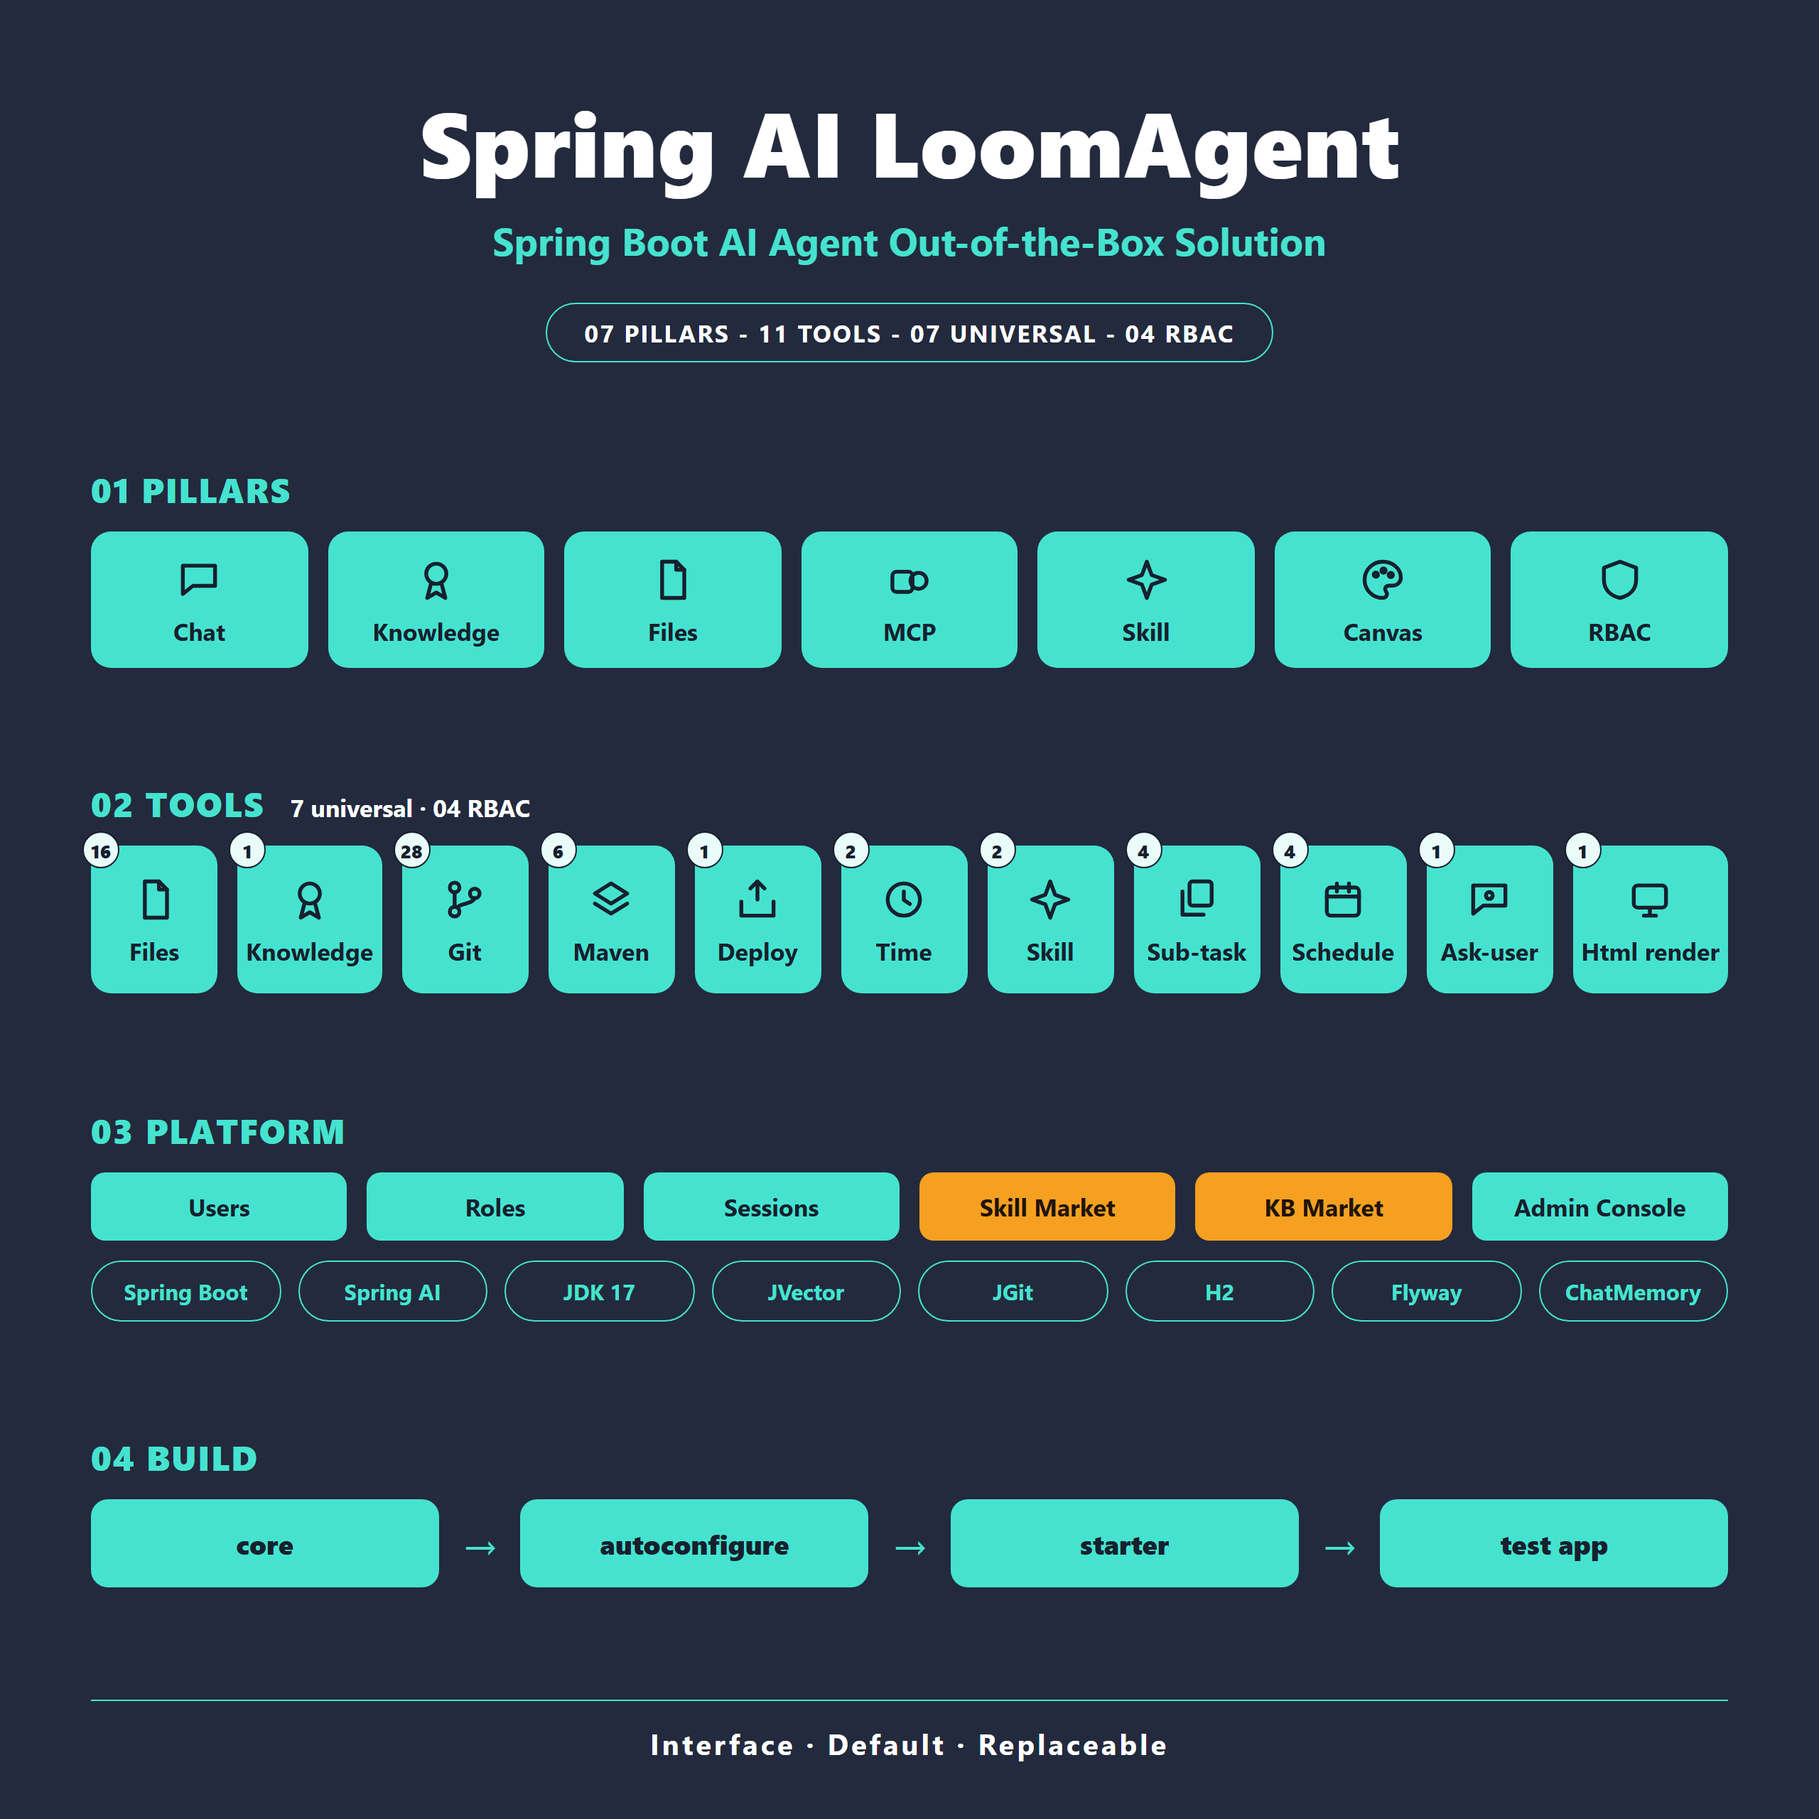
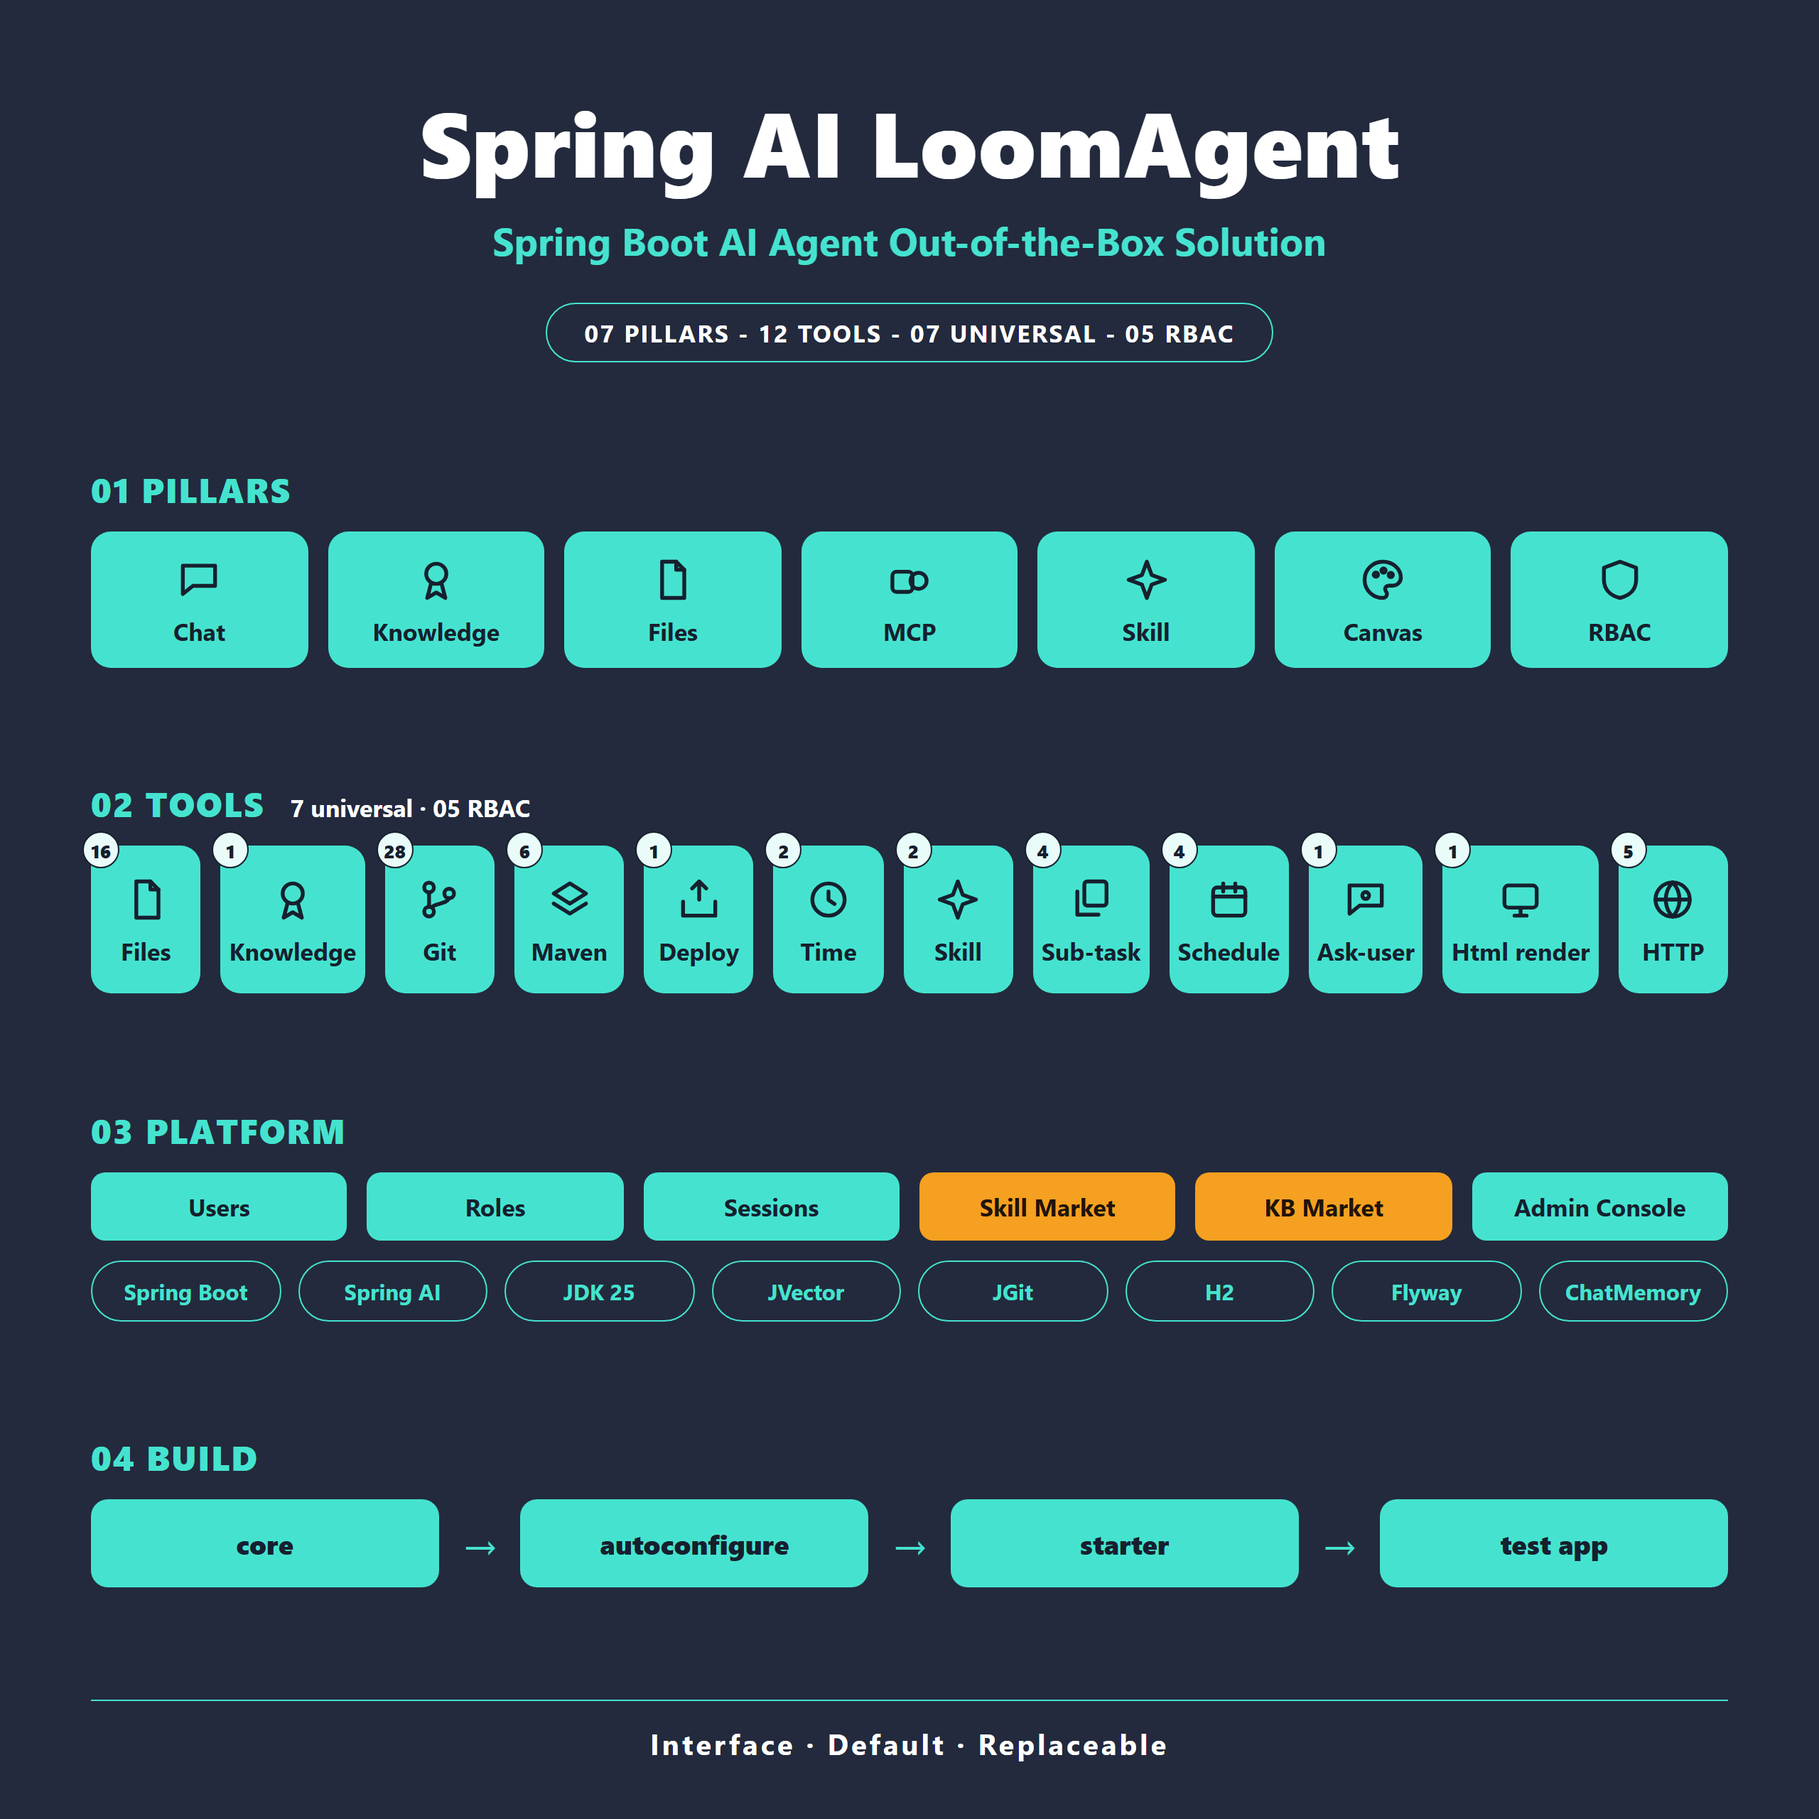
fix(overview): 概览图补 HTTP 工具卡 + 修 JDK/工具数,并让分类数字从卡片集合推导
图是 2026-09-19 生成的,半个月里架构有实质变化,图上留了三处**硬错误**:
  1. **11 TOOLS** —— 缺 `IHttpTool` 整张卡(今天刚补的 5 个 RBAC 工具)
  2. **04 RBAC** —— 实际 5 个(git/maven/compile/render + http)
  3. **JDK 17** —— 实际 `maven.compiler.release=25`(pom.xml:55),README badge 也是 25+。
     错了一整代。

**根因比数字本身更值得修**:`UNIVERSAL_COUNT` / `RBAC_COUNT` 是**手写常量**,
而 `stats_line()` 只从它们自身读 ⇒ 胶囊数字与卡片集合构造上就无关联。
`check.py` 虽有 `UNIVERSAL_COUNT + RBAC_COUNT == len(TOOLS)` 这条等式校验,
但 `7 + 4 == 11` 恰好等于当时的卡数,所以**加工具漏改常量这类漂移构造上查不出来**
(本次就是这样:加了 HTTP 卡后 7+4≠12 才会暴露,而图早就该更新了)。

改法(按"加工具只需动 TOOLS"设计):
  · 分类真源改为 `UNIVERSAL_IDS` / `RBAC_IDS` 两个 frozenset(工具 id 集合),
    `universal_count()` / `rbac_count()` 从 `TOOLS` 卡片列表实际统计,
    胶囊与"7 universal · 05 RBAC"小注都改为推导;
  · `check.py` 的校验从"手写常量等式"换成**真正的集合语义**:
    「不重叠(同一工具不能既是 universal 又是 RBAC)」「不遗漏(每张卡必须归类)」
    「无幽灵 id(集合里不能有 TOOLS 中不存在的 id)」。
    变异验证:把 tool_http 从 RBAC_IDS 移出 → 立刻报 2 条 FAIL、exit 1。

数据真源其余改动:
  · TOOLS 加 `("tool_http", "globe", 5)`;新增 globe 图标(地球经纬线)
  · TECH 的 "JDK 17" → "JDK 25"
  · LABELS 双语补 tool_http(英文 "HTTP" / 中文 "外网HTTP")
  · `tools_note` 在 LABELS 里留 "-" 占位(check.py 的 parity 校验要求非空),
    实际文案由 `tools_note()` 按集合生成

同步文档:SKILL.md 的"11 工具卡"→12;skill README 的"徽章数字同步"改为说明
分类集合推导;CLAUDE.md 的"统计胶囊数字由数据自动计算"补明推导方式与三条分类校验。

未改视觉布局(用户选择"只修事实错误"):内容密度失衡(04 构建信息价值最低却占
整行、底部留白偏大)、配色单色只靠 2 个橙点强调分类、徽章数字缺单位易被误读为
"功能数"、缺独立 MCP server 区块 —— 这些是风格改进项,留待单独一轮。

验证:`python scripts/check.py` → OK(结构自洽 / 分类不重叠不遗漏 / 双语 parity /
章节编号 / 2560x2560 产物尺寸),变异测试确认新校验会红。

Changed region(s): [[0.0625, 0.4375, 0.9375, 0.5625]]

diff --git a/.claude/skills/project-overview-image/scripts/generate.py b/.claude/skills/project-overview-image/scripts/generate.py
@@ -42,6 +42,9 @@ ICONS = {
     "ask": '<path d="M4 5h16v10H9l-5 4z"/><circle cx="12" cy="10" r="1.7"/>',
     "layers": '<rect x="8.5" y="3" width="11" height="12" rx="1.5"/><path d="M5 8v11.5h10.5"/>',
     "monitor": '<rect x="4" y="5" width="16" height="11" rx="2"/><path d="M9 20h6M12 16v4"/>',
+    "globe": '<circle cx="12" cy="12" r="8.5"/><path d="M3.5 12h17"/>'
+             '<path d="M12 3.5c2.2 2.3 3.4 5.3 3.4 8.5S14.2 18.2 12 20.5'
+             'C9.8 18.2 8.6 15.2 8.6 12S9.8 5.8 12 3.5z"/>',
 }
 
 # ---------------------------------------------------------------- 结构(语言无关)
@@ -53,13 +56,20 @@ TOOLS = [  # 工具区卡片:(label_id, icon, 方法数徽章)
     ("tool_file", "doc", 16), ("tool_knowledge", "ribbon", 1), ("tool_git", "branch", 28),
     ("tool_maven", "grid", 6), ("tool_deploy", "deploy", 1), ("tool_time", "clock", 2),
     ("tool_skill", "spark", 2), ("tool_subtask", "layers", 4), ("tool_schedule", "cal", 4),
-    ("tool_askuser", "ask", 1), ("tool_render", "monitor", 1),
+    ("tool_askuser", "ask", 1), ("tool_render", "monitor", 1), ("tool_http", "globe", 5),
 ]
-UNIVERSAL_COUNT = 7   # file/knowledge/time/skill/subtask/schedule/askUser
-RBAC_COUNT = 4        # git/maven/compile/render
+# 分类**由卡片 id 集合推导**,不再手写计数 —— 过去 UNIVERSAL_COUNT/RBAC_COUNT 是
+# 手写常量,而 stats_line() 只从它们自身读,于是"加了卡片忘了改常量"这类漂移
+# 构造上就查不出来(7+4==11 恰好掩盖了 HTTP 卡缺失)。现在改��集合后,
+# 加工具只需动 TOOLS,胶囊数字自动跟随。
+UNIVERSAL_IDS = frozenset({
+    "tool_file", "tool_knowledge", "tool_time", "tool_skill",
+    "tool_subtask", "tool_schedule", "tool_askuser",
+})
+RBAC_IDS = frozenset({"tool_git", "tool_maven", "tool_deploy", "tool_render", "tool_http"})
 PLATFORM = ["user", "role", "session", "market_skill", "market_kb", "console"]
 MARKET_IDS = {"market_skill", "market_kb"}  # 全海报唯一两个橙色芯片
-TECH = ["Spring Boot", "Spring AI", "JDK 17", "JVector", "JGit", "H2", "Flyway", "ChatMemory"]
+TECH = ["Spring Boot", "Spring AI", "JDK 25", "JVector", "JGit", "H2", "Flyway", "ChatMemory"]
 BUILD = ["build_core", "build_config", "build_starter", "build_test"]
 
 # ---------------------------------------------------------------- 双语文案
@@ -68,13 +78,14 @@ LABELS = {
         "subtitle": "Spring Boot AI Agent Out-of-the-Box Solution",
         "sec_pillars": "01 PILLARS", "sec_tools": "02 TOOLS",
         "sec_platform": "03 PLATFORM", "sec_build": "04 BUILD",
-        "tools_note": "7 universal  ·  04 RBAC",
+        "tools_note": "-",   # 占位:实际文案由 tools_note() 按卡片集合生成
         "chat": "Chat", "knowledge": "Knowledge", "files": "Files", "mcp": "MCP",
         "skill": "Skill", "canvas": "Canvas", "rbac": "RBAC",
         "tool_file": "Files", "tool_knowledge": "Knowledge", "tool_git": "Git",
         "tool_maven": "Maven", "tool_deploy": "Deploy", "tool_time": "Time",
         "tool_skill": "Skill", "tool_subtask": "Sub-task", "tool_schedule": "Schedule",
         "tool_askuser": "Ask-user", "tool_render": "Html render",
+        "tool_http": "HTTP",
         "user": "Users", "role": "Roles", "session": "Sessions",
         "market_skill": "Skill Market", "market_kb": "KB Market", "console": "Admin Console",
         "build_core": "core", "build_config": "autoconfigure",
@@ -85,13 +96,14 @@ LABELS = {
         "subtitle": "Spring Boot AI Agent 开箱即用方案",
         "sec_pillars": "01 核心", "sec_tools": "02 工具",
         "sec_platform": "03 平台", "sec_build": "04 构建",
-        "tools_note": "7 通用  ·  4 RBAC",
+        "tools_note": "-",   # 同上
         "chat": "对话", "knowledge": "知识库", "files": "文件", "mcp": "MCP",
         "skill": "技能", "canvas": "画板", "rbac": "权限",
         "tool_file": "文件", "tool_knowledge": "知识库", "tool_git": "Git",
         "tool_maven": "Maven", "tool_deploy": "部署", "tool_time": "时间",
         "tool_skill": "技能", "tool_subtask": "子任务", "tool_schedule": "定时",
         "tool_askuser": "问答", "tool_render": "HTML渲染",
+        "tool_http": "外网HTTP",
         "user": "用户", "role": "角色", "session": "会话",
         "market_skill": "技能市场", "market_kb": "知识市场", "console": "管理控制台",
         "build_core": "核心", "build_config": "自动配置",
@@ -101,10 +113,25 @@ LABELS = {
 }
 
 
+def tools_note() -> str:
+    """"7 universal · 05 RBAC" 小注 —— 同样由卡片集合推导,避免与胶囊脱节。"""
+    return f"{universal_count()} universal  ·  {rbac_count():02d} RBAC"
+
+
+def universal_count() -> int:
+    """实际落在 UNIVERSAL_IDS 里的卡片数 —— 与卡片集合同源,不会漂移。"""
+    return sum(1 for lid, _, _ in TOOLS if lid in UNIVERSAL_IDS)
+
+
+def rbac_count() -> int:
+    """实际落在 RBAC_IDS 里的卡片数 —— 与卡片集合同源,不会漂移。"""
+    return sum(1 for lid, _, _ in TOOLS if lid in RBAC_IDS)
+
+
 def stats_line() -> str:
     """统计胶囊由 DATA 自动计算 —— 与卡片数量构造上一致,不会过时。"""
     return (f"{len(PILLARS):02d} PILLARS  -  {len(TOOLS):02d} TOOLS  -  "
-            f"{UNIVERSAL_COUNT:02d} UNIVERSAL  -  {RBAC_COUNT:02d} RBAC")
+            f"{universal_count():02d} UNIVERSAL  -  {rbac_count():02d} RBAC")
 
 
 def _icon(name: str) -> str:
@@ -210,7 +237,7 @@ def build_html(lang: str) -> str:
     </div>
   </section>
   <section>
-    <div class="sec-head"><span class="tag">{t['sec_tools']}</span><span class="note">{t['tools_note']}</span></div>
+    <div class="sec-head"><span class="tag">{t['sec_tools']}</span><span class="note">{tools_note()}</span></div>
     <div class="row">
 {tool_cards}
     </div>

diff --git a/.claude/skills/project-overview-image/scripts/check.py b/.claude/skills/project-overview-image/scripts/check.py
@@ -46,11 +46,24 @@ def check_structure() -> None:
     # 统计胶囊与卡片数量一致
     line = G.stats_line()
     expect = (f"{len(G.PILLARS):02d} PILLARS  -  {len(G.TOOLS):02d} TOOLS  -  "
-              f"{G.UNIVERSAL_COUNT:02d} UNIVERSAL  -  {G.RBAC_COUNT:02d} RBAC")
+              f"{G.universal_count():02d} UNIVERSAL  -  {G.rbac_count():02d} RBAC")
     if line != expect:
         fail(f"统计胶囊与数据不一致: {line!r} != {expect!r}")
-    if G.UNIVERSAL_COUNT + G.RBAC_COUNT != len(G.TOOLS):
+    if G.universal_count() + G.rbac_count() != len(G.TOOLS):
         fail("universal + RBAC 计数应等于工具卡总数")
+    # 分类必须**恰好覆盖**工具卡:不重叠、不遗漏。
+    # 这条替代了旧的手写常量等式校验 —— 旧式(UNIVERSAL_COUNT + RBAC_COUNT ==
+    # len(TOOLS))在"7+4==11 恰好等于当时卡数"时会通过,加工具漏改常量则构造型漂移。
+    ids = [lid for lid, _, _ in G.TOOLS]
+    both = G.UNIVERSAL_IDS & G.RBAC_IDS
+    if both:
+        fail(f"同一工具不能同时算 universal 与 RBAC: {sorted(both)}")
+    uncategorized = [i for i in ids if i not in G.UNIVERSAL_IDS and i not in G.RBAC_IDS]
+    if uncategorized:
+        fail(f"工具未归类(universal 或 RBAC): {uncategorized}")
+    unknown = (G.UNIVERSAL_IDS | G.RBAC_IDS) - set(ids)
+    if unknown:
+        fail(f"分类集合里有不存在的工具 id: {sorted(unknown)}")
 
 
 def check_i18n_parity() -> None:

diff --git a/CLAUDE.md b/CLAUDE.md
@@ -14,7 +14,7 @@ This file provides guidance to Claude Code (claude.ai/code) when working with co
 
 ## Project Overview Images
 
-`docs/project-overview-en.png` and `docs/project-overview-zh.png` (shown at the top of `README.md` / `README.zh-CN.md`) are generated by the project skill at **`.claude/skills/project-overview-image/`** via a **deterministic pipeline** (2026-09-19 起取代 wan2.7-image 文生图 —— 旧 zh 图实测重复卡/章节跳号等随机缺陷压不住):`generate.py` 的 `DATA`(结构)+ `LABELS`(双语文案)是布局单一真源 → 自包含 HTML/CSS → 本地无头 Chromium(Playwright)截图 2560×2560;统计胶囊数字由数据自动计算,`check.py` 静态校验结构自洽/双语 parity/编号/尺寸。依赖仅 `pip install playwright && playwright install chromium`(不再需要 DASHSCOPE key)。Regenerate via the skill trigger phrases ("更新项目概览图", "刷新 README 顶部的 overview 图", "生成 docs/project-overview-{en,zh}.png") whenever the architecture changes meaningfully — never hand-edit the PNGs;改内容 = 改 `generate.py` 的 DATA/LABELS。
+`docs/project-overview-en.png` and `docs/project-overview-zh.png` (shown at the top of `README.md` / `README.zh-CN.md`) are generated by the project skill at **`.claude/skills/project-overview-image/`** via a **deterministic pipeline** (2026-09-19 起取代 wan2.7-image 文生图 —— 旧 zh 图实测重复卡/章节跳号等随机缺陷压不住):`generate.py` 的 `DATA`(结构)+ `LABELS`(双语文案)是布局单一真源 → 自包含 HTML/CSS → 本地无头 Chromium(Playwright)截图 2560×2560;统计胶囊与小注的 universal/RBAC 数字**由 `TOOLS` 卡片集合推导**(`universal_count()` / `rbac_count()`,分类真源是 `UNIVERSAL_IDS` / `RBAC_IDS` 两个 frozenset)—— 加工具只需动 `TOOLS` 与对应集合,不必再手工同步计数。`check.py` 静态校验结构自洽/分类不重叠不遗漏/双语 parity/编号/尺寸。依赖仅 `pip install playwright && playwright install chromium`(不再需要 DASHSCOPE key)。Regenerate via the skill trigger phrases ("更新项目概览图", "刷新 README 顶部的 overview 图", "生成 docs/project-overview-{en,zh}.png") whenever the architecture changes meaningfully — never hand-edit the PNGs;改内容 = 改 `generate.py` 的 DATA/LABELS。
 
 ## Module Structure
 

diff --git a/.claude/skills/project-overview-image/README.md b/.claude/skills/project-overview-image/README.md
@@ -40,7 +40,7 @@ python .claude/skills/project-overview-image/scripts/check.py
 | 想改什么 | 改哪里 |
 |---|---|
 | 增删核心支柱卡 | `PILLARS`(统计胶囊 `07 PILLARS` 自动跟随) |
-| 增删工具卡/方法数徽章 | `TOOLS`(徽章数字 = `@Tool` 方法数;`UNIVERSAL_COUNT`/`RBAC_COUNT` 同步) |
+| 增删工具卡/方法数徽章 | `TOOLS`(徽章数字 = `@Tool` 方法数)。**universal / RBAC 分类不用手改计数** —— 把工具 id 加进 `UNIVERSAL_IDS` 或 `RBAC_IDS` 即可,胶囊与小注的 `07 UNIVERSAL / 05 RBAC` 由 `universal_count()` / `rbac_count()` 从卡片集合推导;`check.py` 会校验「不重叠 + 不遗漏 + 无幽灵 id」,漏归类直接 exit 1 |
 | 平台芯片/橙色市场高亮 | `PLATFORM` / `MARKET_IDS`(橙色**恰好 2 个**,check.py 锁) |
 | 技术芯片/构建行/页脚 | `TECH` / `BUILD` / `LABELS[*].footer` |
 | 任一双语文案 | `LABELS["en"|"zh"]`(键集合双语对齐,check.py 锁) |

diff --git a/.claude/skills/project-overview-image/SKILL.md b/.claude/skills/project-overview-image/SKILL.md
@@ -16,7 +16,7 @@ DATA/LABELS(generate.py 单一真源)
   → check.py 静态校验(结构自洽 / 双语 parity / 章节编号 / 产物尺寸)
 ```
 
-**为什么不用文生图**:信息密集海报(7 核心卡 + 11 工具卡带徽章 + 8 技术芯片 + 双语)
+**为什么不用文生图**:信息密集海报(7 核心卡 + 12 工具卡带徽章 + 8 技术芯片 + 双语)
 在文生图下随机缺陷压不住 —— 旧 zh 图实测章节跳号(03→04 重复)、平台行重复「会话」,
 布局规格里明确写"禁止"仍复发。本管线这些缺陷**构造上不可能**:标签来自 DATA 列表,
 统计胶囊(`07 PILLARS - 11 TOOLS - ...`)由 `len(PILLARS)/len(TOOLS)/...` 自动计算,
